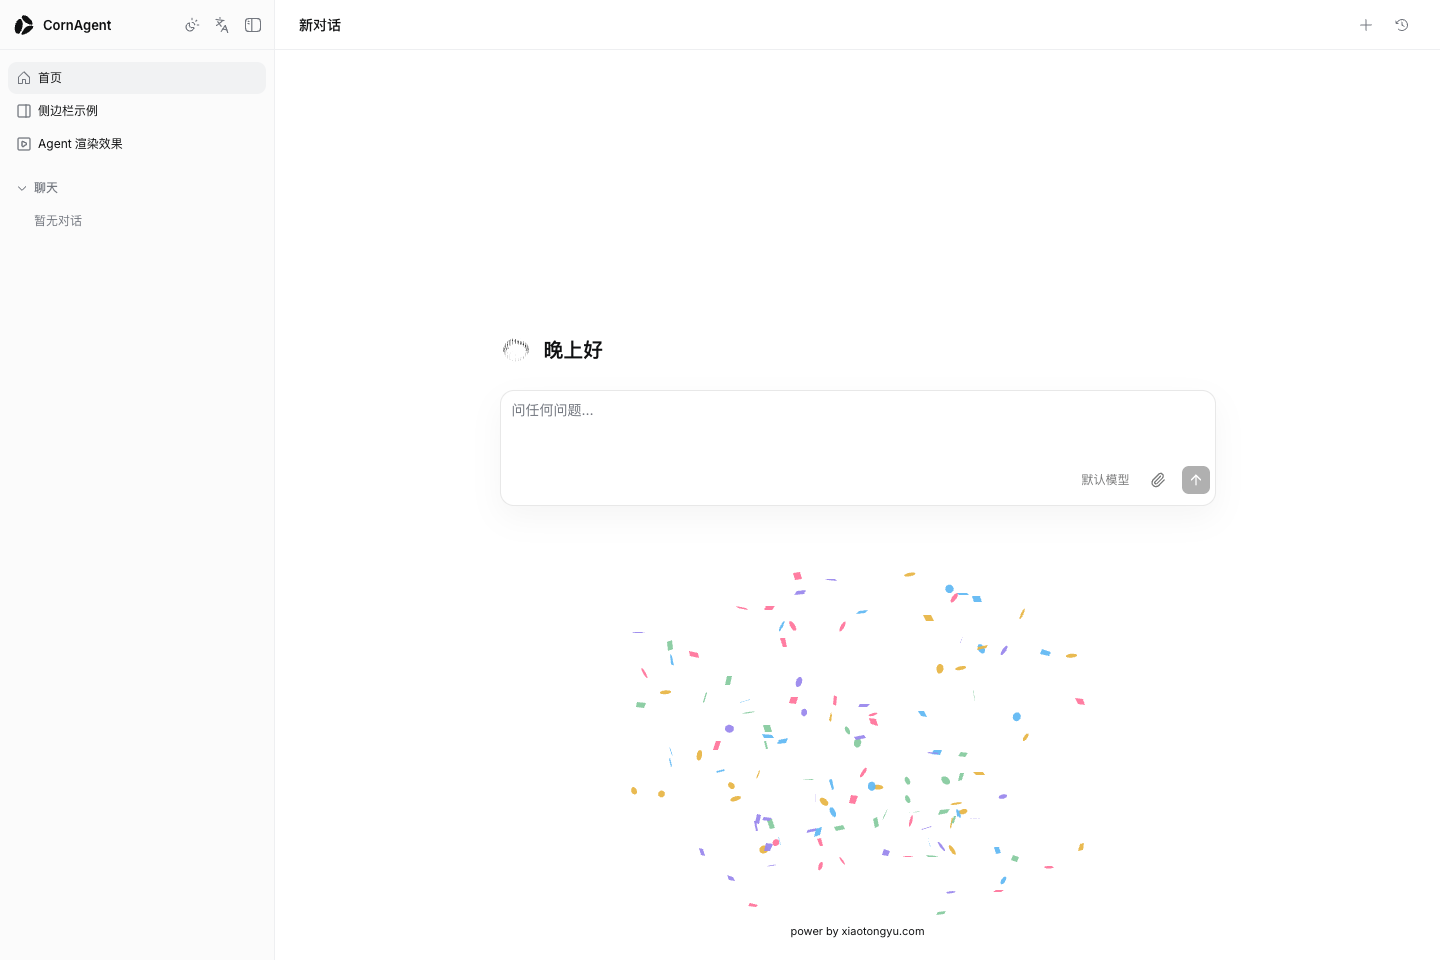
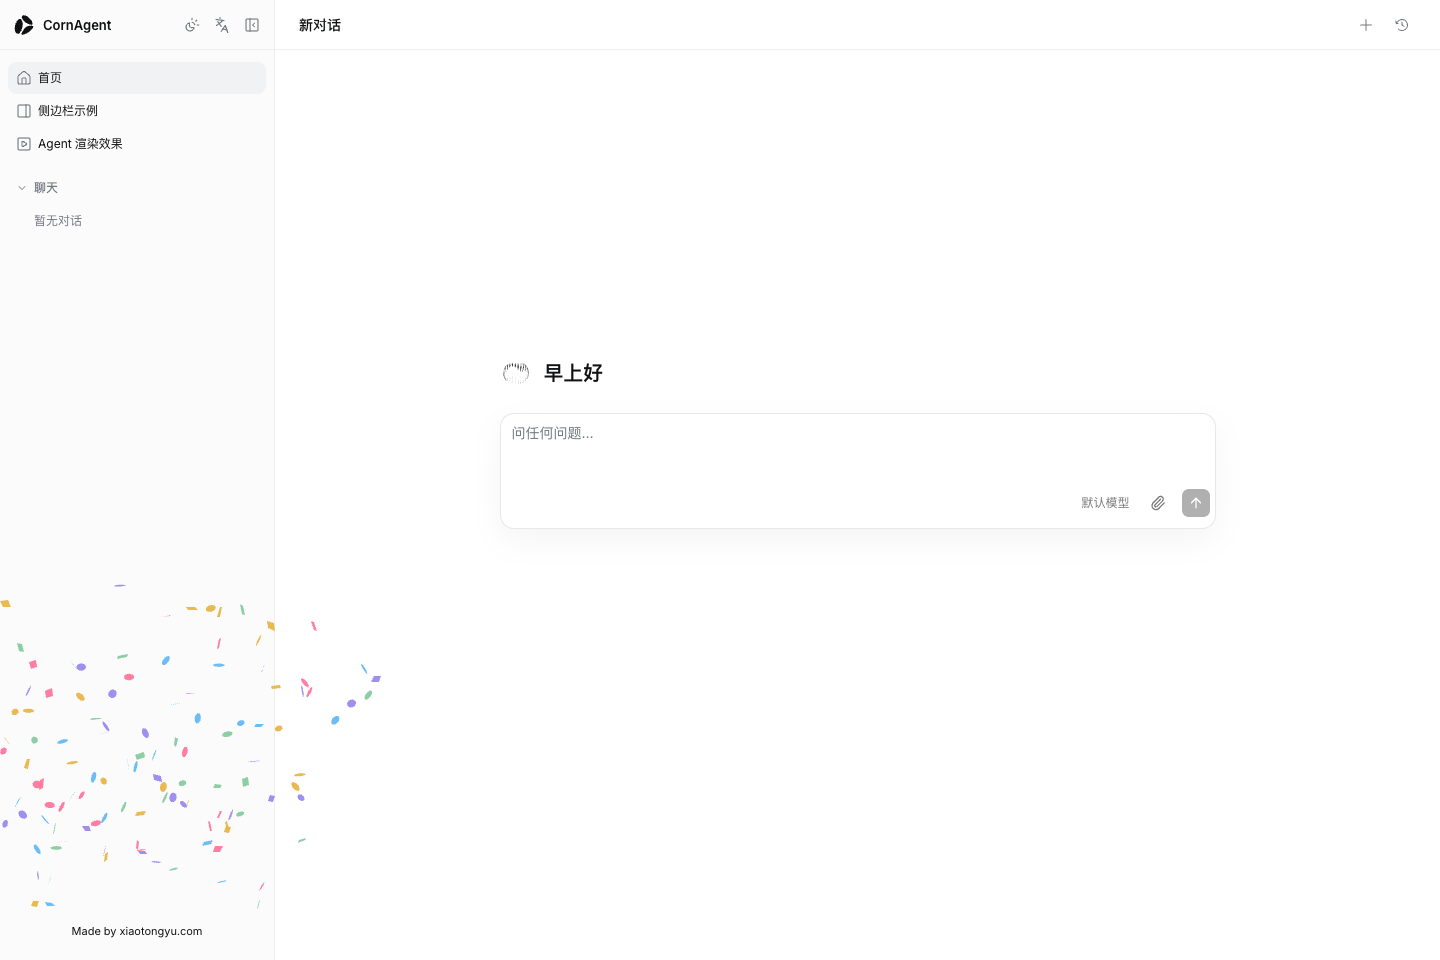
fix: 统一侧栏图标并将作者署名移至菜单底部

diff --git a/frontend/src/styles/components/sidebar.css b/frontend/src/styles/components/sidebar.css
@@ -25,19 +25,7 @@
 .desktop-navigation-toggle { position: fixed; top: 12px; left: 12px; z-index: 85; width: 24px; height: 24px; place-items: center; color: var(--muted);}
 .sidebar-collapsed .desktop-navigation-toggle { display: grid;}
 .desktop-navigation-toggle:hover { color: var(--text);}
-.navigation-menu-icon { display: block; width: 18px; height: 18px; pointer-events: none; line-height: 0;}
-.navigation-menu-icon > svg { display: block; width: 18px; height: 18px; overflow: visible;}
-.navigation-menu-icon path { fill: currentColor; transform-box: fill-box; transform-origin: center;}
-.navigation-menu-icon path:not(:first-of-type) { transition: transform .2s ease, opacity .12s ease;}
-.navigation-menu-icon-collapse path:nth-of-type(5), .navigation-menu-icon-expand path:nth-of-type(3) { transition: transform .2s ease, opacity .2s ease;}
-.navigation-menu-icon-collapse path:nth-of-type(5) { opacity: 0; transform: translateX(6px);}
-.desktop-sidebar-collapse:hover .navigation-menu-icon-collapse path:nth-of-type(2), .desktop-sidebar-collapse:focus-visible .navigation-menu-icon-collapse path:nth-of-type(2) { opacity: 0; transform: translateX(-6px) scale(.9);}
-.desktop-sidebar-collapse:hover .navigation-menu-icon-collapse path:nth-of-type(3), .desktop-sidebar-collapse:hover .navigation-menu-icon-collapse path:nth-of-type(4), .desktop-sidebar-collapse:focus-visible .navigation-menu-icon-collapse path:nth-of-type(3), .desktop-sidebar-collapse:focus-visible .navigation-menu-icon-collapse path:nth-of-type(4) { opacity: 0; transform: translateX(-4px);}
-.desktop-sidebar-collapse:hover .navigation-menu-icon-collapse path:nth-of-type(5), .desktop-sidebar-collapse:focus-visible .navigation-menu-icon-collapse path:nth-of-type(5) { opacity: 1; transform: translateX(0);}
-.navigation-menu-icon-expand path:nth-of-type(2) { opacity: 0; transform: translateX(-6px) scale(.9);}
-.navigation-menu-icon-expand path:nth-of-type(3) { transform: translateX(-6px);}
-.navigation-menu-icon-expand path:nth-of-type(4), .navigation-menu-icon-expand path:nth-of-type(5) { opacity: 0; transform: translateX(-4px);}
-.desktop-navigation-toggle:hover .navigation-menu-icon-expand path:not(:first-of-type), .desktop-navigation-toggle:focus-visible .navigation-menu-icon-expand path:not(:first-of-type) { opacity: 1; transform: translateX(0) scale(1);}
+.navigation-menu-icon { display: block; pointer-events: none; }
 .sidebar-header-actions { position: absolute; top: 10px; right: 8px; display: flex; align-items: center; gap: 2px;}
 .sidebar-header-icon-button { width: 28px; height: 28px; display: grid; place-items: center; border-radius: 8px; color: var(--muted); transition: color .16s ease, background-color .16s ease, transform .16s ease;}
 .sidebar-header-icon-button:hover { color: var(--text); background: rgba(255, 255, 255, .04);}
@@ -82,3 +70,8 @@
   text-align: left;}
 .nav-chat-load-more:hover,
 .nav-chat-load-more:focus-visible { color: var(--text);}
+
+.sidebar-credit { flex: 0 0 auto; display: flex; justify-content: center; padding: 8px 8px max(12px, env(safe-area-inset-bottom)); }
+.sidebar-credit-button { max-width: 100%; padding: 8px 4px; border: 0; border-radius: 6px; background: transparent; color: var(--muted); font-size: 11px; font-weight: 400; line-height: 18px; white-space: nowrap; cursor: pointer; }
+.sidebar-credit-button:hover { color: var(--text); }
+.sidebar-credit-button:focus-visible { outline: 2px solid var(--focus); outline-offset: 2px; }

diff --git a/frontend/src/components/sidebar/SidebarNavigation.tsx b/frontend/src/components/sidebar/SidebarNavigation.tsx
@@ -1,5 +1,4 @@
-import { CaretDown, ChatsCircle, House } from '@phosphor-icons/react'
-import { PanelRight, PlaySquare, Plus } from 'lucide-react'
+import { ChevronDown, House, MessagesSquare, PanelRight, Plus, SquarePlay } from 'lucide-react'
 import { useEffect, useState } from 'react'
 import type { AgentSession } from '../../agent/types'
 import { AgentSessionActionsMenu } from '../../agent/AgentSessionActionsMenu'
@@ -72,21 +71,21 @@ export function SidebarNavigation({
         <SidebarNavItem
           active={home}
           onClick={onHome}
-          icon={<House size={16} weight="regular" aria-hidden="true" />}
+          icon={<House size={16} strokeWidth={1.75} aria-hidden="true" />}
         >
           {t('home')}
         </SidebarNavItem>
         <SidebarNavItem
           active={example}
           onClick={onExample}
-          icon={<PanelRight size={16} aria-hidden="true" />}
+          icon={<PanelRight size={16} strokeWidth={1.75} aria-hidden="true" />}
         >
           {t('sidebarExample')}
         </SidebarNavItem>
         <SidebarNavItem
           active={renderingPreview}
           onClick={onRenderingPreview}
-          icon={<PlaySquare size={16} aria-hidden="true" />}
+          icon={<SquarePlay size={16} strokeWidth={1.75} aria-hidden="true" />}
         >
           {t('agentRendering')}
         </SidebarNavItem>
@@ -100,9 +99,10 @@ export function SidebarNavigation({
             aria-controls="sidebar-chat-navigation"
             onClick={() => setChatsOpen((open) => !open)}
           >
-            <CaretDown
+            <ChevronDown
               className={chatsOpen ? 'nav-section-caret open' : 'nav-section-caret'}
               size={12}
+              strokeWidth={1.75}
               aria-hidden="true"
             />
             <span>{t('chats')}</span>
@@ -114,7 +114,7 @@ export function SidebarNavigation({
               title={t('newChat')}
               onClick={onNewChat}
             >
-              <Plus size={14} aria-hidden="true" />
+              <Plus size={14} strokeWidth={1.75} aria-hidden="true" />
             </button>
           </span>
         </div>
@@ -129,7 +129,7 @@ export function SidebarNavigation({
                   active={session.id === currentSessionId}
                   onClick={() => onOpenChat(session.id)}
                   title={session.title}
-                  icon={<ChatsCircle size={16} aria-hidden="true" />}
+                  icon={<MessagesSquare size={16} strokeWidth={1.75} aria-hidden="true" />}
                 >
                   {session.title}
                 </SidebarNavItem>

diff --git a/frontend/src/agent/AgentSessionActionsMenu.tsx b/frontend/src/agent/AgentSessionActionsMenu.tsx
@@ -1,5 +1,4 @@
-import { DotsThree } from '@phosphor-icons/react'
-import { Trash2 } from 'lucide-react'
+import { Ellipsis, Trash2 } from 'lucide-react'
 import { useCallback, useEffect, useId, useRef, useState, type KeyboardEvent } from 'react'
 import { apiErrorMessage } from '../api/transport'
 import { ConfirmDialog } from '../components/ConfirmDialog'
@@ -111,7 +110,7 @@ export function AgentSessionActionsMenu({ disabled, disabledReason, sessionTitle
       disabled={disabled}
       title={disabled ? disabledReason : triggerLabel ?? text('更多操作', 'More actions')}
       onClick={openMenu}
-    ><DotsThree size={16} aria-hidden /></button>
+    ><Ellipsis size={16} strokeWidth={1.75} aria-hidden /></button>
     {renderMenu && <FloatingMenuPortal
       getAnchor={() => triggerRef.current}
       menuRef={menuRef}
@@ -124,7 +123,7 @@ export function AgentSessionActionsMenu({ disabled, disabledReason, sessionTitle
         <button type="button" className="menu-row danger" role="menuitem" onClick={() => {
           requestClose(false)
           setConfirmOpen(true)
-        }}><Trash2 size={16} aria-hidden />{text('删除会话', 'Delete conversation')}</button>
+        }}><Trash2 size={16} strokeWidth={1.75} aria-hidden />{text('删除会话', 'Delete conversation')}</button>
       </div>
     </FloatingMenuPortal>}
     {confirmOpen && <ConfirmDialog

diff --git a/frontend/src/agent/AgentChatPage.tsx b/frontend/src/agent/AgentChatPage.tsx
@@ -4,7 +4,6 @@ import { AgentHistoryPicker } from './AgentHistoryPicker'
 import { AgentSessionActionsMenu } from './AgentSessionActionsMenu'
 import { useI18n } from '../i18n'
 import type { AgentWorkspace } from './useAgentWorkspace'
-import { HomeCredit } from '../components/HomeCredit'
 
 interface AgentChatPageProps {
   sessionId: string | null
@@ -32,7 +31,7 @@ export function AgentChatPage({ sessionId, userName, workspace, onSessionChange 
     onSessionChange(null)
   }
 
-  return <div className={`agent-chat-page${sessionId === null ? ' agent-chat-page--home' : ''}`} data-testid="agent-chat-page">
+  return <div className="agent-chat-page" data-testid="agent-chat-page">
     <header className="topbar agent-chat-header">
       <strong>{sessionId === null ? t('newChat') : currentSession?.title ?? t('openingChat')}</strong>
       <span className="spacer" />
@@ -63,6 +62,5 @@ export function AgentChatPage({ sessionId, userName, workspace, onSessionChange 
     {sessionId !== null && !currentSession && workspace.available !== false && !workspace.error
       ? <div className="workspace-loading" role="status"><span className="spinner" />{t('openingChat')}</div>
       : <AgentConversation focusPrompt={focusPrompt} onSessionChange={onSessionChange} userName={userName} workspace={workspace} />}
-    {sessionId === null && <HomeCredit />}
   </div>
 }

diff --git a/frontend/src/components/sidebar/SidebarCredit.tsx b/frontend/src/components/sidebar/SidebarCredit.tsx
@@ -1,6 +1,6 @@
 import confetti from 'canvas-confetti'
 import type { MouseEvent } from 'react'
-import { useI18n } from '../i18n'
+import { useI18n } from '../../i18n'
 
 function celebrate(event: MouseEvent<HTMLButtonElement>) {
   if (window.matchMedia('(prefers-reduced-motion: reduce)').matches) return
@@ -21,11 +21,11 @@ function celebrate(event: MouseEvent<HTMLButtonElement>) {
   void confetti({ ...options, particleCount: 45, spread: 130, startVelocity: 25, decay: 0.92, scalar: 0.8 })
 }
 
-export function HomeCredit() {
+export function SidebarCredit() {
   const { t } = useI18n()
   return (
-    <footer className="home-credit">
-      <button type="button" className="home-credit-button" title={t('creatorCelebration')} onClick={celebrate}>
+    <footer className="sidebar-credit">
+      <button type="button" className="sidebar-credit-button" title={t('creatorCelebration')} onClick={celebrate}>
         {t('creatorCredit')}
       </button>
     </footer>

diff --git a/frontend/src/styles/components/agent.css b/frontend/src/styles/components/agent.css
@@ -166,11 +166,6 @@ html.agent-panel-resizing .app-shell { transition: none; }
   overflow: hidden;
   background: var(--bg);
 }
-.agent-chat-page--home { grid-template-rows: var(--app-header-height, 50px) minmax(0, 1fr) auto; }
-.home-credit { display: flex; justify-content: center; padding: 0 16px max(12px, env(safe-area-inset-bottom)); }
-.home-credit-button { padding: 8px 10px; border: 0; border-radius: 6px; background: transparent; color: var(--muted); font-size: 11px; font-weight: 400; line-height: 18px; cursor: pointer; }
-.home-credit-button:hover { color: var(--text); }
-.home-credit-button:focus-visible { outline: 2px solid var(--focus); outline-offset: 2px; }
 .agent-chat-header { gap: 2px; padding: 0 4px 0 14px; }
 .agent-chat-header > strong { max-width: min(48vw, 520px); overflow: hidden; font-size: 13px; font-weight: 560; text-overflow: ellipsis; white-space: nowrap; }
 

diff --git a/frontend/src/components/sidebar/NavigationMenuIcon.tsx b/frontend/src/components/sidebar/NavigationMenuIcon.tsx
@@ -1,18 +1,10 @@
-import collapseIconMarkup from '../../assets/svg/menu.svg?raw'
-import expandIconMarkup from '../../assets/svg/menu-right.svg?raw'
+import { PanelLeftClose, PanelLeftOpen } from 'lucide-react'
 
 interface NavigationMenuIconProps {
   variant: 'collapse' | 'expand'
 }
 
 export function NavigationMenuIcon({ variant }: NavigationMenuIconProps) {
-  const iconMarkup = variant === 'collapse' ? collapseIconMarkup : expandIconMarkup
-
-  return (
-    <span
-      className={`navigation-menu-icon navigation-menu-icon-${variant}`}
-      aria-hidden="true"
-      dangerouslySetInnerHTML={{ __html: iconMarkup }}
-    />
-  )
+  const Icon = variant === 'collapse' ? PanelLeftClose : PanelLeftOpen
+  return <Icon className="navigation-menu-icon" size={16} strokeWidth={1.75} aria-hidden="true" />
 }

diff --git a/frontend/src/components/Sidebar.tsx b/frontend/src/components/Sidebar.tsx
@@ -2,6 +2,7 @@ import { useEffect } from 'react'
 import { useI18n } from '../i18n'
 import { CollapsedSidebarPreview } from './CollapsedSidebarPreview'
 import { SidebarResizeHandle } from './SidebarResizeHandle'
+import { SidebarCredit } from './sidebar/SidebarCredit'
 import { SidebarHeader } from './sidebar/SidebarHeader'
 import { SidebarNavigation, type SidebarNavigationProps } from './sidebar/SidebarNavigation'
 
@@ -77,6 +78,7 @@ export function Sidebar({
             onCloseMobile={onCloseMobile}
           />
           <SidebarNavigation {...navigation} />
+          <SidebarCredit />
         </aside>
       )}
     </CollapsedSidebarPreview>

diff --git a/frontend/src/styles/shell.css b/frontend/src/styles/shell.css
@@ -45,4 +45,4 @@
   .cornagent-shell > .agent-drawer { position: fixed; inset: 0 0 0 auto; z-index: 320; max-width: 100vw; min-width: 0; }
 }
 @media (hover: none) { .nav-actions, .nav-chat-actions { opacity: 1; } }
-@media (prefers-reduced-motion: reduce) { .sidebar, .navigation-menu-icon path, .nav-section-caret, .sidebar-header-icon-button { transition: none; } }
+@media (prefers-reduced-motion: reduce) { .sidebar, .nav-section-caret, .sidebar-header-icon-button { transition: none; } }

diff --git a/frontend/src/i18n/catalog.ts b/frontend/src/i18n/catalog.ts
@@ -18,7 +18,7 @@ export const messages = {
 
   navigation: ['主导航', 'Main navigation'],
   home: ['首页', 'Home'],
-  creatorCredit: ['power by xiaotongyu.com', 'power by xiaotongyu.com'],
+  creatorCredit: ['Made by xiaotongyu.com', 'Made by xiaotongyu.com'],
   creatorCelebration: ['点击放烟花', 'Celebrate with confetti'],
   chats: ['聊天', 'Chats'],
   chatActions: ['管理“{title}”', 'Manage “{title}”'],

diff --git a/frontend/src/components/sidebar/SidebarHeader.tsx b/frontend/src/components/sidebar/SidebarHeader.tsx
@@ -59,7 +59,7 @@ export function SidebarHeader({ preview, onCollapse, onExpand, onCloseMobile }: 
           aria-label={t('closeNavigation')}
           onClick={onCloseMobile}
         >
-          <X size={18} aria-hidden="true" />
+          <X size={16} strokeWidth={1.75} aria-hidden="true" />
         </button>
       </div>
     </div>

diff --git a/frontend/README.md b/frontend/README.md
@@ -31,9 +31,9 @@ npm run build
 
 ## 导航与主题
 
-主侧栏标题左侧使用 [CornAgent SVG 图标](../assets/brand/cornagent.svg)，通过 CSS mask 跟随主题文字色，图标与名称垂直居中。仅新对话首页底部显示 `power by xiaotongyu.com`；点击或用键盘激活署名时，`HomeCredit.tsx` 根据按钮的实时位置发射 canvas-confetti。烟花遵守系统减少动态效果偏好，署名不触发页面跳转或会话操作。
+主侧栏标题左侧使用 [CornAgent SVG 图标](../assets/brand/cornagent.svg)，通过 CSS mask 跟随主题文字色，图标与名称垂直居中。左侧菜单底部居中显示 `Made by xiaotongyu.com`，位于导航滚动区之外，随菜单折叠或打开；点击或用键盘激活署名时，`sidebar/SidebarCredit.tsx` 根据按钮的实时位置发射 canvas-confetti。烟花遵守系统减少动态效果偏好，署名不触发页面跳转或会话操作。
 
-主侧栏包含首页、侧边栏示例、Agent 渲染效果和可折叠的聊天分组，可点击导航项统一为 32px。支持新建对话、历史分页、宽度调整与折叠预览。语言、主题、侧栏宽度及折叠状态保存在当前浏览器。首次使用跟随系统深浅主题，手动切换后使用保存的选择；CSS 与 Ant Design 共享黑白主色。窄屏使用抽屉导航，支持遮罩关闭、Escape 和键盘焦点管理。`/sidebar` 为 Agent 面板集成示例，页面标题为“在您的业务页面，询问AI”，下方复用 Ant Design Skeleton 组合博客文章布局；顶部“询问AI”按钮打开面板。
+主侧栏导航、聊天列表、操作菜单和折叠按钮统一使用 `lucide-react`，导航图标为 16px、描边为 1.75。侧栏包含首页、侧边栏示例、Agent 渲染效果和可折叠的聊天分组，可点击导航项统一为 32px。支持新建对话、历史分页、宽度调整与折叠预览。语言、主题、侧栏宽度及折叠状态保存在当前浏览器。首次使用跟随系统深浅主题，手动切换后使用保存的选择；CSS 与 Ant Design 共享黑白主色。窄屏使用抽屉导航，支持遮罩关闭、Escape 和键盘焦点管理。`/sidebar` 为 Agent 面板集成示例，页面标题为“在您的业务页面，询问AI”，下方复用 Ant Design Skeleton 组合博客文章布局；顶部“询问AI”按钮打开面板。
 
 已保存会话的删除入口位于聊天详情右上角和侧栏会话菜单，复用确认弹窗与工作区删除方法。删除当前会话后回到 `/chat`；删除其他会话时保留当前页面。空白新对话在首次发送前没有 Session，不显示会话删除入口。
 
